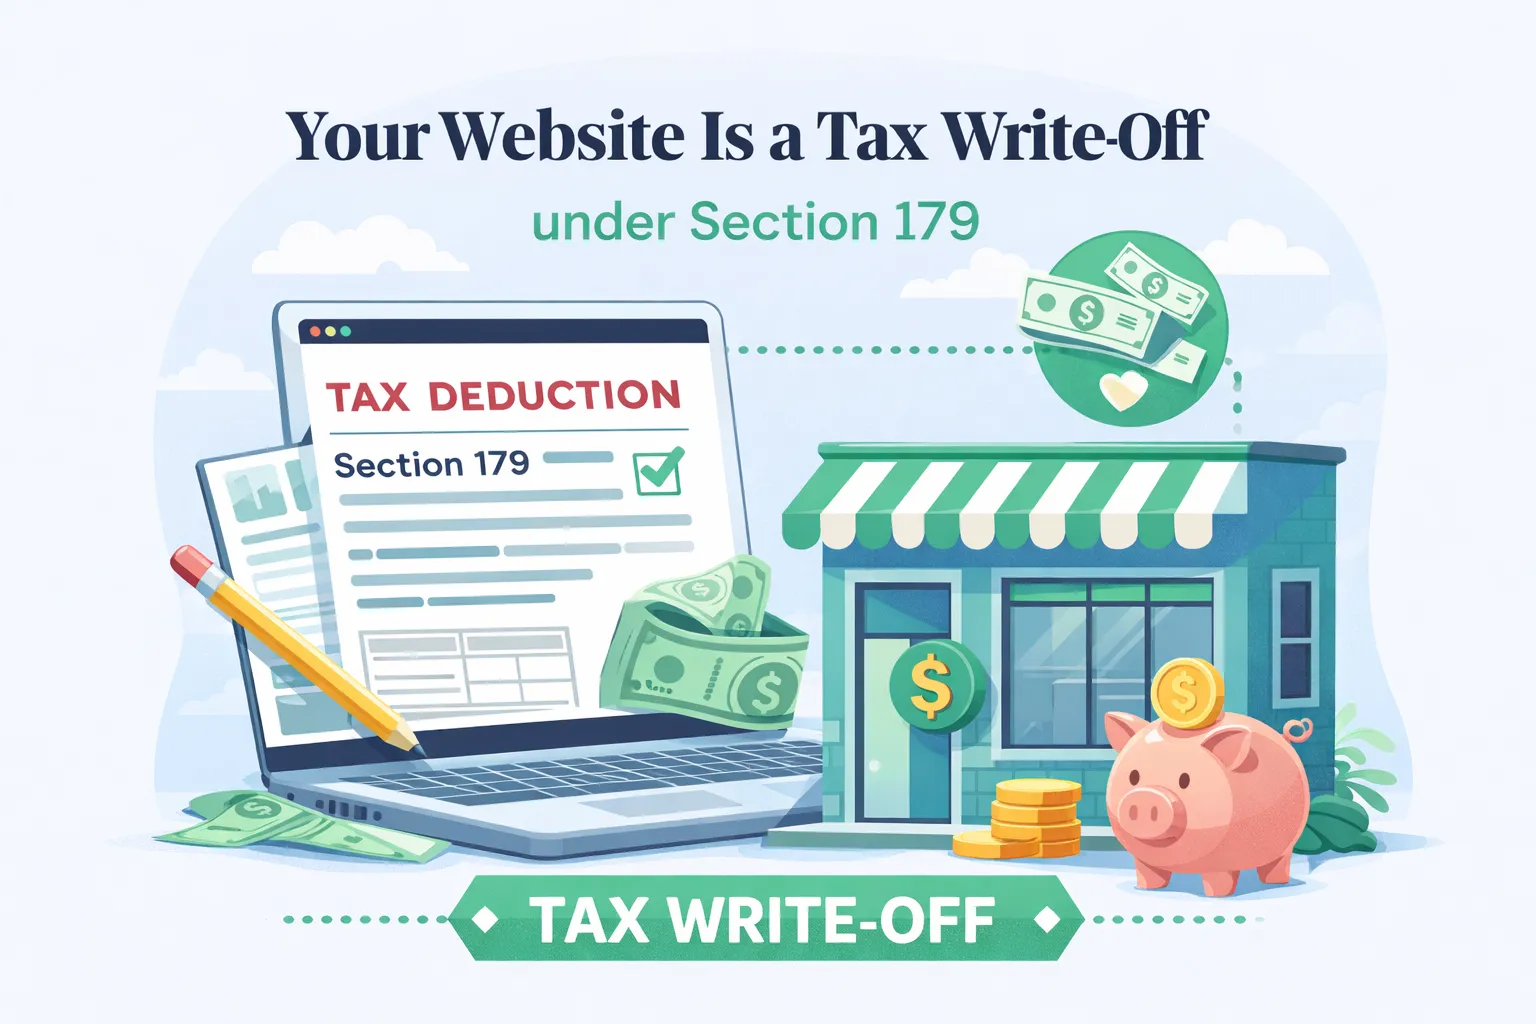
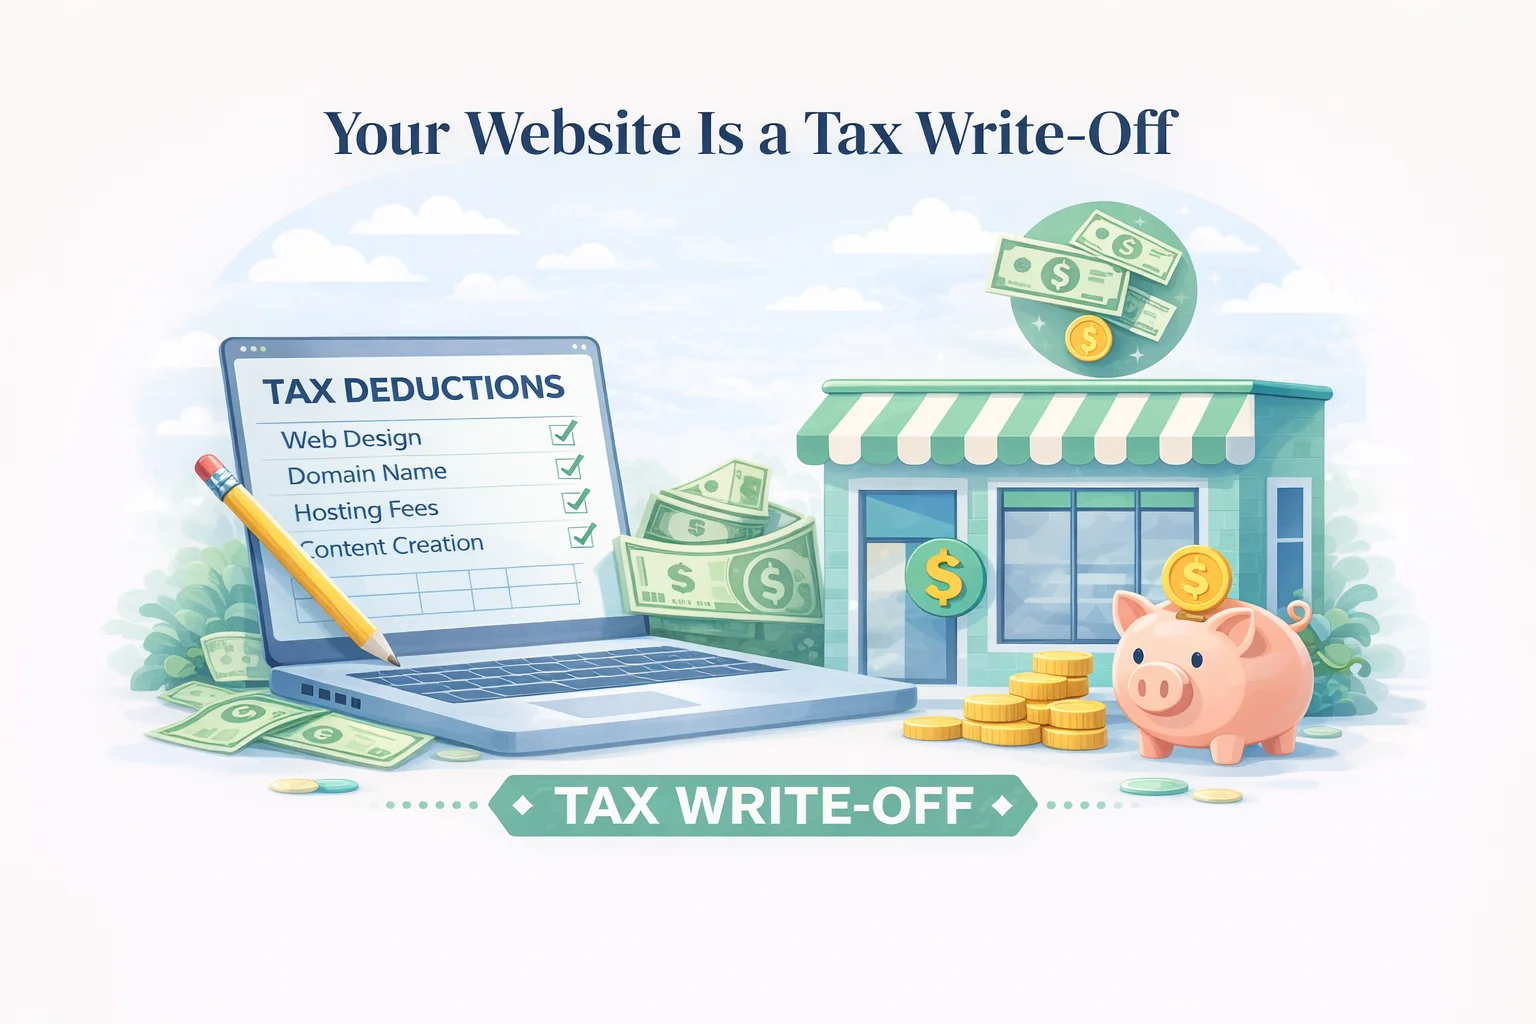
Soften tax blog post — remove Section 179 claims, replace image

diff --git a/app/blog/your-website-is-a-tax-write-off/content.tsx b/app/blog/your-website-is-a-tax-write-off/content.tsx
@@ -40,7 +40,7 @@ export default function ArticlePage({ faqItems }: { faqItems: FaqItem[] }) {
           <motion.div initial={{ opacity: 0, y: 20 }} animate={{ opacity: 1, y: 0 }} transition={{ duration: 0.6, delay: 0.1 }} className="mb-10">
             <img
               src="/small-business-website-tax-write-off.webp"
-              alt="Small business website tax write-off under Section 179, laptop showing tax deduction form next to a small business storefront and piggy bank"
+              alt="Small business website tax write-off, laptop showing tax deduction form next to a small business storefront and piggy bank"
               width={1024}
               height={1024}
               className="w-full rounded-2xl"
@@ -51,7 +51,7 @@ export default function ArticlePage({ faqItems }: { faqItems: FaqItem[] }) {
           <div className="prose-studio">
             {/* Intro */}
             <p className="text-base md:text-lg text-brand-primary/70 leading-relaxed mb-8">
-              If you're a small business owner, here's something you might not know: <strong>the money you spend on your business website is generally tax-deductible.</strong> That means the IRS lets you subtract it from your taxable income, putting real money back in your pocket.
+              If you're a small business owner, here's something you might not know: <strong>the money you spend on your business website may be tax-deductible as a business expense.</strong> In most cases, that means you can subtract it from your taxable income, putting real money back in your pocket.
             </p>
 
             <div className="p-5 rounded-2xl bg-amber-50 border border-amber-200/60 mb-8">
@@ -63,7 +63,7 @@ export default function ArticlePage({ faqItems }: { faqItems: FaqItem[] }) {
             {/* How it works */}
             <h2 className="text-2xl md:text-3xl mt-12 mb-6">How It Works</h2>
             <p className="text-brand-primary/70 leading-relaxed mb-6">
-              The IRS considers a business website a legitimate business expense. Depending on your situation, there are generally two ways to deduct it:
+              The IRS generally treats a business website as a legitimate business expense. Depending on the size and complexity of your project, there are usually two ways it can be handled:
             </p>
 
             <div className="grid sm:grid-cols-2 gap-4 mb-8">
@@ -72,10 +72,10 @@ export default function ArticlePage({ faqItems }: { faqItems: FaqItem[] }) {
                   <div className="w-8 h-8 rounded-lg bg-brand-accent/10 flex items-center justify-center">
                     <Receipt size={16} className="text-brand-accent" />
                   </div>
-                  <span className="text-xs font-bold uppercase tracking-widest text-brand-primary/40">Section 179</span>
+                  <span className="text-xs font-bold uppercase tracking-widest text-brand-primary/40">Business Expense</span>
                 </div>
                 <p className="text-sm text-brand-primary/70 leading-relaxed">
-                  Deduct the <strong>full cost</strong> of your website in the year you paid for it. Most small business websites qualify. This is the simplest route for a site under $5,000.
+                  A simple business website is often deducted as a <strong>business expense in the year you paid for it</strong>. This is the most common route for smaller informational sites.
                 </p>
               </div>
 
@@ -84,10 +84,10 @@ export default function ArticlePage({ faqItems }: { faqItems: FaqItem[] }) {
                   <div className="w-8 h-8 rounded-lg bg-brand-accent/10 flex items-center justify-center">
                     <FileText size={16} className="text-brand-accent" />
                   </div>
-                  <span className="text-xs font-bold uppercase tracking-widest text-brand-primary/40">Amortization</span>
+                  <span className="text-xs font-bold uppercase tracking-widest text-brand-primary/40">Software / Asset</span>
                 </div>
                 <p className="text-sm text-brand-primary/70 leading-relaxed">
-                  Spread the deduction over <strong>3 years</strong>. This can make sense for larger website projects. Your accountant can advise which method saves you the most.
+                  Larger projects with accounts, dashboards, or e-commerce may be treated more like <strong>software or a business asset</strong> and deducted over time. Your accountant can advise which method fits.
                 </p>
               </div>
             </div>
@@ -183,7 +183,7 @@ export default function ArticlePage({ faqItems }: { faqItems: FaqItem[] }) {
             {/* Bottom line */}
             <h2 className="text-2xl md:text-3xl mt-12 mb-6">The Bottom Line</h2>
             <p className="text-brand-primary/70 leading-relaxed mb-6">
-              You need a website for your business. The IRS generally lets you deduct it. That makes a $900 website even more affordable than it already is. Talk to your accountant, keep your receipts, and put your website to work for your customers <em>and</em> your tax return.
+              You need a website for your business, and in most cases the cost can be deducted as a business expense. That makes a $900 website even more affordable than it already is. Talk to your accountant, keep your receipts, and put your website to work for your customers <em>and</em> your tax return.
             </p>
 
             <div className="p-5 rounded-2xl bg-amber-50 border border-amber-200/60 mb-8">

diff --git a/app/blog/your-website-is-a-tax-write-off/page.tsx b/app/blog/your-website-is-a-tax-write-off/page.tsx
@@ -3,7 +3,7 @@ import ArticlePage from './content';
 
 export const metadata: Metadata = {
   title: 'Your Website Is a Tax Write-Off. Here\'s What to Know | Studio 925',
-  description: 'A business website is a tax-deductible expense under Section 179. Learn how small business owners can write off their website costs and keep more money in their pocket.',
+  description: 'In most cases, a business website is a tax-deductible business expense. Learn how small business owners can write off their website costs and keep more money in their pocket.',
   alternates: { canonical: '/blog/your-website-is-a-tax-write-off' },
   openGraph: {
     title: 'Your Website Is a Tax Write-Off. Here\'s What to Know',
@@ -16,7 +16,7 @@ export const metadata: Metadata = {
 const faqItems = [
   {
     question: 'Can I write off my entire website cost in one year?',
-    answer: 'In most cases, yes. Under Section 179, small businesses can deduct the full cost of a business website in the year it was purchased rather than spreading it over several years. However, tax rules can change, so always check with your accountant or tax professional to confirm what applies to your situation.',
+    answer: 'In many cases, yes. Small business websites are often deducted as a business expense in the year they were purchased rather than spread over several years. Larger or more complex projects may be treated differently. Tax rules change and every situation is different, so always check with your accountant or tax professional to confirm what applies to you.',
   },
   {
     question: 'Is website hosting tax-deductible too?',

diff --git a/app/blog/blog-index.tsx b/app/blog/blog-index.tsx
@@ -10,7 +10,7 @@ const posts = [
   {
     slug: 'your-website-is-a-tax-write-off',
     title: 'Your Website Is a Tax Write-Off — Here\'s What to Know',
-    excerpt: 'A business website is generally tax-deductible under Section 179. Here\'s what small business owners need to know to keep more money in their pocket.',
+    excerpt: 'In most cases, a business website is tax-deductible as a business expense. Here\'s what small business owners need to know to keep more money in their pocket.',
     date: '2026-04-04',
     readTime: '4 min read',
     tags: ['Tax Tips', 'Small Business'],
